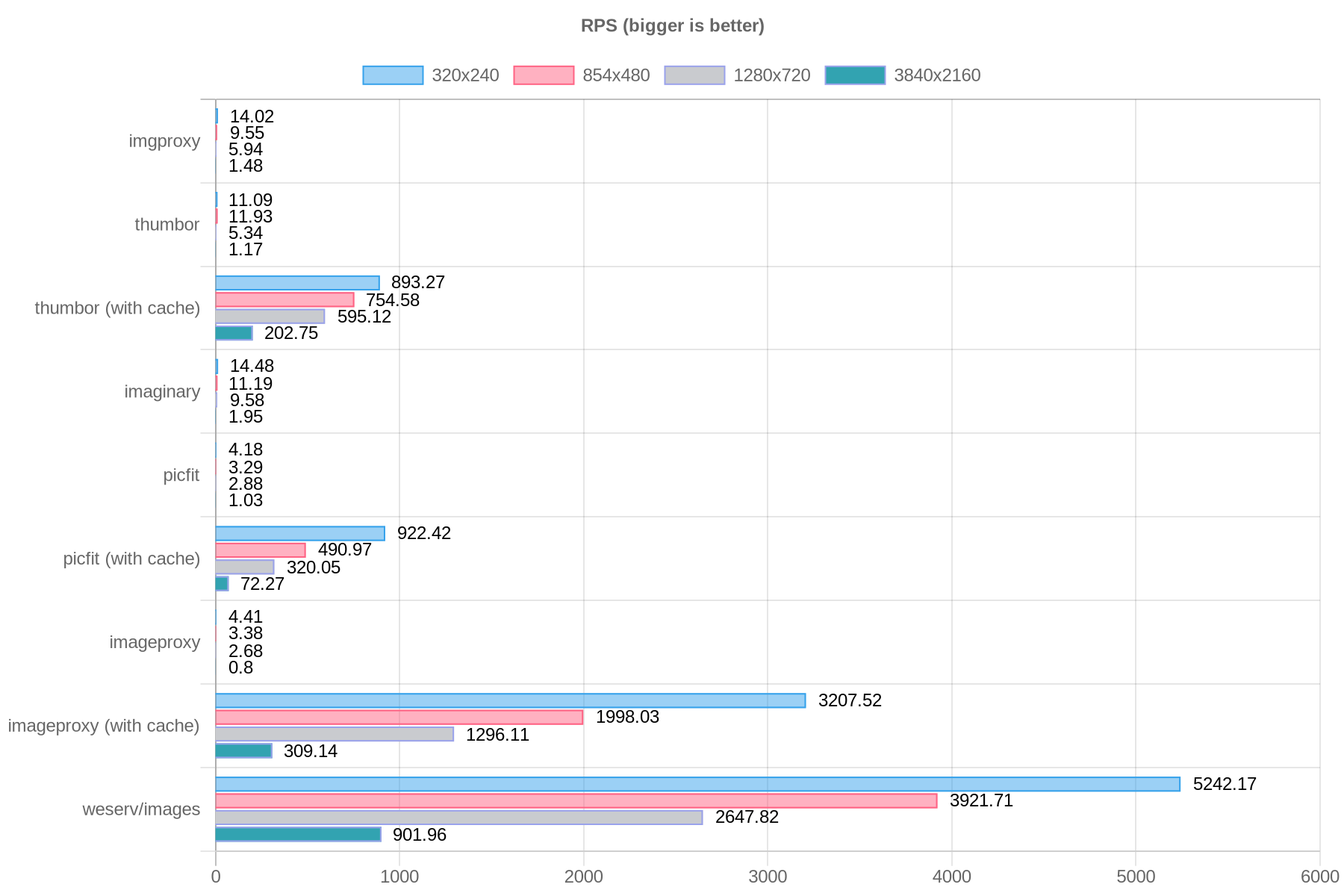
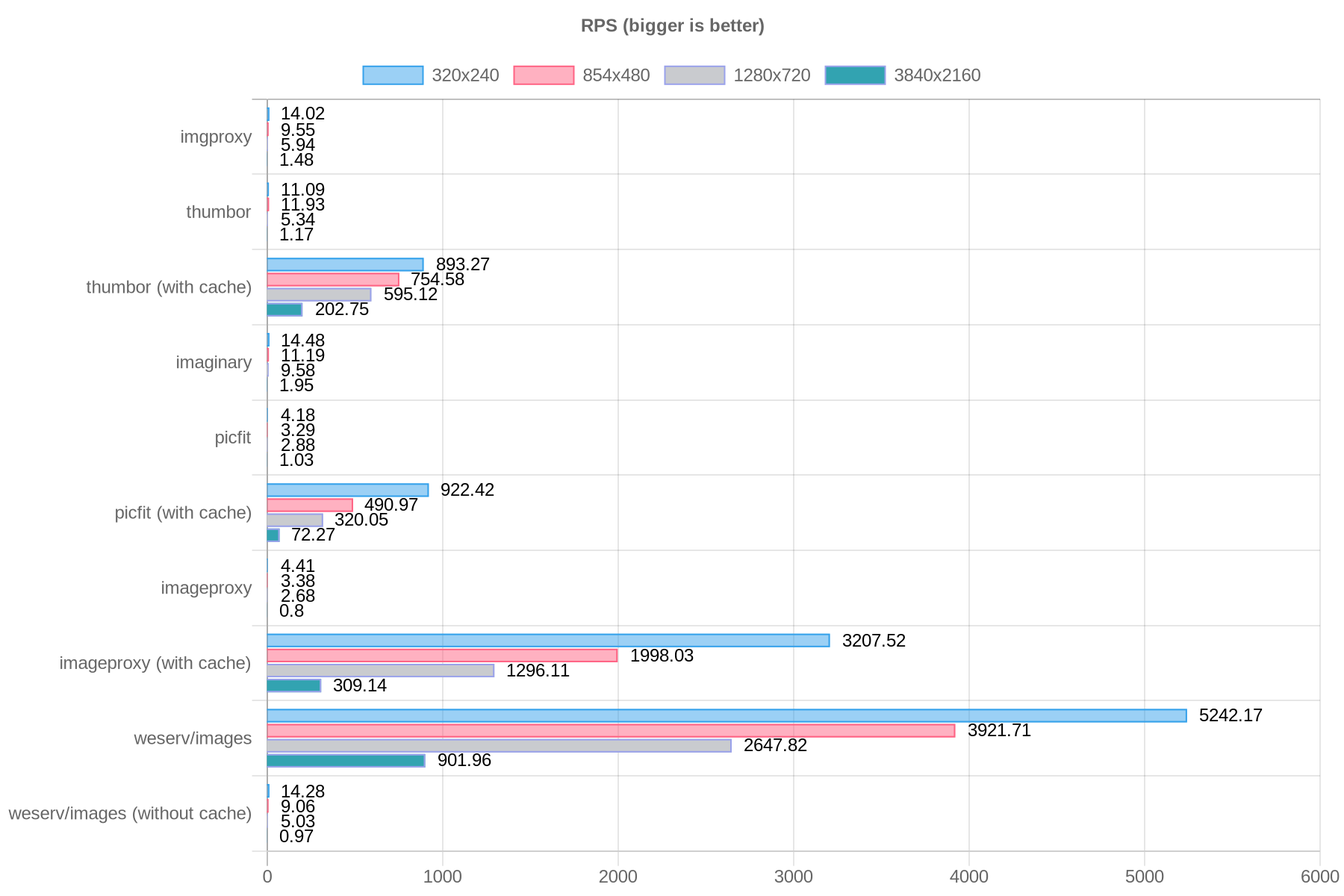
Update weserv/images (without  cache) results

diff --git a/README.md b/README.md
@@ -54,16 +54,16 @@ Flags:                           fpu vme de pse tsc msr pae mce cx8 apic sep mtr
 |             | imgproxy                   | thumbor                    | thumbor (with `file_storage` cache) | imaginary                  | picfit                     | picfit (with `fs` cache)  | imageproxy                 | imageproxy (with `in memory` cache) | weserv/images              | weserv/images (without `nginx` cache) |
 | ----------- | -------------------------- | -------------------------- | ----------------------------------- | -------------------------- | -------------------------- | ------------------------- | -------------------------- | ----------------------------------- | -------------------------- | ------------------------------------- |
 | 320x240     | 71.90ms (14.02 rps, 60MB)  | 90.51ms (11.09 rps, 60MB)  | 1.79ms (893.27 rps, 50MB)           | 69.55ms (14.48 rps, 200MB) | 238.91ms (4.18 rps, 50MB)  | 8.23ms (922.42 rps, 40MB) | 226.29ms (4.41 rps, 60MB)  | 2.41ms (3207.52 rps, 40MB)          | 0.5ms (5242.17 rps, 40MB)  | 70.28ms (14.28 rps, 45MB)             |
-| 854x480     | 105.17ms (9.55 rps, 65MB)  | 84.06ms (11.93 rps, 65MB)  | 1.33ms (754.58 rps, 50MB)           | 89.84ms (11.19 rps, 320MB) | 303.05ms (3.29 rps, 60MB)  | 4.56ms (490.97 rps, 40MB) | 295.18ms (3.38 rps, 70MB)  | 1.63ms (1998.03 rps, 40MB)          | 0.6ms (3921.71 rps, 40MB)  | 90.40ms (11.06 rps, 55MB)             |
-| 1280x720    | 168.57ms (5.94 rps, 70MB)  | 186.55ms (5.34 rps, 70MB)  | 2.24ms (595.12 rps, 50MB)           | 104.65ms (9.58 rps, 380MB) | 345.35ms (2.88 rps, 80MB)  | 6.31ms (320.05 rps, 50MB) | 373.96ms (2.68 rps, 80MB)  | 2.40ms (1296.11 rps, 40MB)          | 1.34ms (2647.82 rps, 40MB) | 70.28ms (14.28 rps, 45MB)             |
-| 3840x2160   | 669.91ms (1.48 rps, 100MB) | 855.83ms (1.17 rps, 120MB) | 14.35ms (202.75 rps, 65MB)          | 509.45ms (1.95 rps, 500MB) | 956.23ms (1.03 rps, 150MB) | 47.13ms (72.27 rps, 70MB) | 1250.0ms (0.80 rps, 150MB) | 22.20ms (309.14 rps, 50MB)          | 4.27ms (901.96 rps, 40MB)  | 70.28ms (14.28 rps, 45MB)             |
+| 854x480     | 105.17ms (9.55 rps, 65MB)  | 84.06ms (11.93 rps, 65MB)  | 1.33ms (754.58 rps, 50MB)           | 89.84ms (11.19 rps, 320MB) | 303.05ms (3.29 rps, 60MB)  | 4.56ms (490.97 rps, 40MB) | 295.18ms (3.38 rps, 70MB)  | 1.63ms (1998.03 rps, 40MB)          | 0.6ms (3921.71 rps, 40MB)  | 111.55ms (9.06 rps, 55MB)             |
+| 1280x720    | 168.57ms (5.94 rps, 70MB)  | 186.55ms (5.34 rps, 70MB)  | 2.24ms (595.12 rps, 50MB)           | 104.65ms (9.58 rps, 380MB) | 345.35ms (2.88 rps, 80MB)  | 6.31ms (320.05 rps, 50MB) | 373.96ms (2.68 rps, 80MB)  | 2.40ms (1296.11 rps, 40MB)          | 1.34ms (2647.82 rps, 40MB) | 198.45ms (5.03 rps, 65MB)             |
+| 3840x2160   | 669.91ms (1.48 rps, 100MB) | 855.83ms (1.17 rps, 120MB) | 14.35ms (202.75 rps, 65MB)          | 509.45ms (1.95 rps, 500MB) | 956.23ms (1.03 rps, 150MB) | 47.13ms (72.27 rps, 70MB) | 1250.0ms (0.80 rps, 150MB) | 22.20ms (309.14 rps, 50MB)          | 4.27ms (901.96 rps, 40MB)  | 1020.0ms (0.97 rps, 90MB)             |
 
 
-![https://quickchart.io/sandbox/#%7B%0A%20%20%22type%22%3A%20%22horizontalBar%22%2C%0A%20%20%22data%22%3A%20%7B%0A%20%20%20%20%22labels%22%3A%20%5B%0A%20%20%20%20%20%20%22imgproxy%22%2C%0A%20%20%20%20%20%20%22thumbor%22%2C%0A%20%20%20%20%20%20%22thumbor%20(with%20cache)%22%2C%0A%20%20%20%20%20%20%22imaginary%22%2C%0A%20%20%20%20%20%20%22picfit%22%2C%0A%20%20%20%20%20%20%22picfit%20(with%20cache)%22%2C%0A%20%20%20%20%20%20%22imageproxy%22%2C%0A%20%20%20%20%20%20%22imageproxy%20(with%20cache)%22%2C%0A%20%20%20%20%20%20%22weserv%2Fimages%22%0A%20%20%20%20%5D%2C%0A%20%20%20%20%22datasets%22%3A%20%5B%0A%20%20%20%20%20%20%7B%0A%20%20%20%20%20%20%20%20%22label%22%3A%20%22320x240%22%2C%0A%20%20%20%20%20%20%20%20%22backgroundColor%22%3A%20%22rgba(54%2C%20162%2C%20235%2C%200.5)%22%2C%0A%20%20%20%20%20%20%20%20%22borderColor%22%3A%20%22rgb(54%2C%20162%2C%20235)%22%2C%0A%20%20%20%20%20%20%20%20%22borderWidth%22%3A%201%2C%0A%20%20%20%20%20%20%20%20%22data%22%3A%20%5B%0A%20%20%20%20%20%20%20%20%20%2071.90%2C%0A%20%20%20%20%20%20%20%20%20%2090.51%2C%0A%20%20%20%20%20%20%20%20%20%201.79%2C%0A%20%20%20%20%20%20%20%20%20%2069.55%2C%0A%20%20%20%20%20%20%20%20%20%20238.91%2C%0A%20%20%20%20%20%20%20%20%20%208.23%2C%0A%20%20%20%20%20%20%20%20%20%20226.29%2C%0A%20%20%20%20%20%20%20%20%20%202.41%2C%0A%20%20%20%20%20%20%20%20%20%200.5%2C%0A%20%20%20%20%20%20%20%20%5D%0A%20%20%20%20%20%20%7D%2C%0A%20%20%20%20%20%20%7B%0A%20%20%20%20%20%20%20%20%22label%22%3A%20%22854x480%22%2C%0A%20%20%20%20%20%20%20%20%22backgroundColor%22%3A%20%22rgba(255%2C%2099%2C%20132%2C%200.5)%22%2C%0A%20%20%20%20%20%20%20%20%22borderColor%22%3A%20%22rgb(255%2C%2099%2C%20132)%22%2C%0A%20%20%20%20%20%20%20%20%22borderWidth%22%3A%201%2C%0A%20%20%20%20%20%20%20%20%22data%22%3A%20%5B%0A%20%20%20%20%20%20%20%20%20%20105.17%2C%0A%20%20%20%20%20%20%20%20%20%2084.06%2C%0A%20%20%20%20%20%20%20%20%20%201.33%2C%0A%20%20%20%20%20%20%20%20%20%2089.84%2C%0A%20%20%20%20%20%20%20%20%20%20303.05%2C%0A%20%20%20%20%20%20%20%20%20%204.56%2C%0A%20%20%20%20%20%20%20%20%20%20295.18%2C%0A%20%20%20%20%20%20%20%20%20%201.63%2C%0A%20%20%20%20%20%20%20%20%20%200.6%2C%0A%20%20%20%20%20%20%20%20%5D%0A%20%20%20%20%20%20%7D%2C%0A%20%20%20%20%20%20%7B%0A%20%20%20%20%20%20%20%20%22label%22%3A%20%221280x720%22%2C%0A%20%20%20%20%20%20%20%20%22backgroundColor%22%3A%20%22rgb(201%2C%20203%2C%20207)%22%2C%0A%20%20%20%20%20%20%20%20%22borderColor%22%3A%20%22rgb(154%2C%20162%2C%20235)%22%2C%0A%20%20%20%20%20%20%20%20%22borderWidth%22%3A%201%2C%0A%20%20%20%20%20%20%20%20%22data%22%3A%20%5B%0A%20%20%20%20%20%20%20%20%20%20168.57%2C%0A%20%20%20%20%20%20%20%20%20%20186.55%2C%0A%20%20%20%20%20%20%20%20%20%202.24%2C%0A%20%20%20%20%20%20%20%20%20%20104.65%2C%0A%20%20%20%20%20%20%20%20%20%20345.35%2C%0A%20%20%20%20%20%20%20%20%20%206.31%2C%0A%20%20%20%20%20%20%20%20%20%20373.96%2C%0A%20%20%20%20%20%20%20%20%20%202.40%2C%0A%20%20%20%20%20%20%20%20%20%201.34%2C%0A%20%20%20%20%20%20%20%20%5D%0A%20%20%20%20%20%20%7D%2C%0A%20%20%20%20%20%20%7B%0A%20%20%20%20%20%20%20%20%22label%22%3A%20%223840x2160%22%2C%0A%20%20%20%20%20%20%20%20%22backgroundColor%22%3A%20%22rgb(50%2C%20163%2C%20177)%22%2C%0A%20%20%20%20%20%20%20%20%22borderColor%22%3A%20%22rgb(154%2C%20162%2C%20235)%22%2C%0A%20%20%20%20%20%20%20%20%22borderWidth%22%3A%201%2C%0A%20%20%20%20%20%20%20%20%22data%22%3A%20%5B%0A%20%20%20%20%20%20%20%20%20%20669.91%2C%0A%20%20%20%20%20%20%20%20%20%20855.83%2C%0A%20%20%20%20%20%20%20%20%20%2014.35%2C%0A%20%20%20%20%20%20%20%20%20%20509.45%2C%0A%20%20%20%20%20%20%20%20%20%20956.23%2C%0A%20%20%20%20%20%20%20%20%20%2047.13%2C%0A%20%20%20%20%20%20%20%20%20%201250.0%2C%0A%20%20%20%20%20%20%20%20%20%2022.20%2C%0A%20%20%20%20%20%20%20%20%20%204.27%2C%0A%20%20%20%20%20%20%20%20%5D%0A%20%20%20%20%20%20%7D%0A%20%20%20%20%5D%0A%20%20%7D%2C%0A%20%20%22options%22%3A%20%7B%0A%20%20%20%20%22plugins%22%3A%20%7B%0A%20%20%20%20%20%20%22datalabels%22%3A%20%7B%0A%20%20%20%20%20%20%20%20%22anchor%22%3A%20%22end%22%2C%0A%20%20%20%20%20%20%20%20%22align%22%3A%20%22end%22%2C%0A%20%20%20%20%20%20%20%20%22color%22%3A%20%22%23000%22%0A%20%20%20%20%20%20%7D%0A%20%20%20%20%7D%2C%0A%20%20%20%20%22responsive%22%3A%20true%2C%0A%20%20%20%20%22legend%22%3A%20%7B%0A%20%20%20%20%20%20%22position%22%3A%20%22top%22%0A%20%20%20%20%7D%2C%0A%20%20%20%20%22title%22%3A%20%7B%0A%20%20%20%20%20%20%22display%22%3A%20true%2C%0A%20%20%20%20%20%20%22text%22%3A%20%22Rendering%20time%20in%20milliseconds%20(lower%20is%20better)%22%0A%20%20%20%20%7D%0A%20%20%7D%0A%7D](./chart-time.png)
+![https://quickchart.io/sandbox/#%7B%0A%20%20%22type%22%3A%20%22horizontalBar%22%2C%0A%20%20%22data%22%3A%20%7B%0A%20%20%20%20%22labels%22%3A%20%5B%0A%20%20%20%20%20%20%22imgproxy%22%2C%0A%20%20%20%20%20%20%22thumbor%22%2C%0A%20%20%20%20%20%20%22thumbor%20(with%20cache)%22%2C%0A%20%20%20%20%20%20%22imaginary%22%2C%0A%20%20%20%20%20%20%22picfit%22%2C%0A%20%20%20%20%20%20%22picfit%20(with%20cache)%22%2C%0A%20%20%20%20%20%20%22imageproxy%22%2C%0A%20%20%20%20%20%20%22imageproxy%20(with%20cache)%22%2C%0A%20%20%20%20%20%20%22weserv%2Fimages%22%2C%0A%20%20%20%20%20%20%22weserv%2Fimages%20(without%20cache)%22%0A%20%20%20%20%5D%2C%0A%20%20%20%20%22datasets%22%3A%20%5B%0A%20%20%20%20%20%20%7B%0A%20%20%20%20%20%20%20%20%22label%22%3A%20%22320x240%22%2C%0A%20%20%20%20%20%20%20%20%22backgroundColor%22%3A%20%22rgba(54%2C%20162%2C%20235%2C%200.5)%22%2C%0A%20%20%20%20%20%20%20%20%22borderColor%22%3A%20%22rgb(54%2C%20162%2C%20235)%22%2C%0A%20%20%20%20%20%20%20%20%22borderWidth%22%3A%201%2C%0A%20%20%20%20%20%20%20%20%22data%22%3A%20%5B%0A%20%20%20%20%20%20%20%20%20%2071.90%2C%0A%20%20%20%20%20%20%20%20%20%2090.51%2C%0A%20%20%20%20%20%20%20%20%20%201.79%2C%0A%20%20%20%20%20%20%20%20%20%2069.55%2C%0A%20%20%20%20%20%20%20%20%20%20238.91%2C%0A%20%20%20%20%20%20%20%20%20%208.23%2C%0A%20%20%20%20%20%20%20%20%20%20226.29%2C%0A%20%20%20%20%20%20%20%20%20%202.41%2C%0A%20%20%20%20%20%20%20%20%20%200.5%2C%0A%20%20%20%20%20%20%20%20%20%2070.28%2C%0A%20%20%20%20%20%20%20%20%5D%0A%20%20%20%20%20%20%7D%2C%0A%20%20%20%20%20%20%7B%0A%20%20%20%20%20%20%20%20%22label%22%3A%20%22854x480%22%2C%0A%20%20%20%20%20%20%20%20%22backgroundColor%22%3A%20%22rgba(255%2C%2099%2C%20132%2C%200.5)%22%2C%0A%20%20%20%20%20%20%20%20%22borderColor%22%3A%20%22rgb(255%2C%2099%2C%20132)%22%2C%0A%20%20%20%20%20%20%20%20%22borderWidth%22%3A%201%2C%0A%20%20%20%20%20%20%20%20%22data%22%3A%20%5B%0A%20%20%20%20%20%20%20%20%20%20105.17%2C%0A%20%20%20%20%20%20%20%20%20%2084.06%2C%0A%20%20%20%20%20%20%20%20%20%201.33%2C%0A%20%20%20%20%20%20%20%20%20%2089.84%2C%0A%20%20%20%20%20%20%20%20%20%20303.05%2C%0A%20%20%20%20%20%20%20%20%20%204.56%2C%0A%20%20%20%20%20%20%20%20%20%20295.18%2C%0A%20%20%20%20%20%20%20%20%20%201.63%2C%0A%20%20%20%20%20%20%20%20%20%200.6%2C%0A%20%20%20%20%20%20%20%20%20%20111.55%2C%0A%20%20%20%20%20%20%20%20%5D%0A%20%20%20%20%20%20%7D%2C%0A%20%20%20%20%20%20%7B%0A%20%20%20%20%20%20%20%20%22label%22%3A%20%221280x720%22%2C%0A%20%20%20%20%20%20%20%20%22backgroundColor%22%3A%20%22rgb(201%2C%20203%2C%20207)%22%2C%0A%20%20%20%20%20%20%20%20%22borderColor%22%3A%20%22rgb(154%2C%20162%2C%20235)%22%2C%0A%20%20%20%20%20%20%20%20%22borderWidth%22%3A%201%2C%0A%20%20%20%20%20%20%20%20%22data%22%3A%20%5B%0A%20%20%20%20%20%20%20%20%20%20168.57%2C%0A%20%20%20%20%20%20%20%20%20%20186.55%2C%0A%20%20%20%20%20%20%20%20%20%202.24%2C%0A%20%20%20%20%20%20%20%20%20%20104.65%2C%0A%20%20%20%20%20%20%20%20%20%20345.35%2C%0A%20%20%20%20%20%20%20%20%20%206.31%2C%0A%20%20%20%20%20%20%20%20%20%20373.96%2C%0A%20%20%20%20%20%20%20%20%20%202.40%2C%0A%20%20%20%20%20%20%20%20%20%201.34%2C%0A%20%20%20%20%20%20%20%20%20%20198.45%2C%0A%20%20%20%20%20%20%20%20%5D%0A%20%20%20%20%20%20%7D%2C%0A%20%20%20%20%20%20%7B%0A%20%20%20%20%20%20%20%20%22label%22%3A%20%223840x2160%22%2C%0A%20%20%20%20%20%20%20%20%22backgroundColor%22%3A%20%22rgb(50%2C%20163%2C%20177)%22%2C%0A%20%20%20%20%20%20%20%20%22borderColor%22%3A%20%22rgb(154%2C%20162%2C%20235)%22%2C%0A%20%20%20%20%20%20%20%20%22borderWidth%22%3A%201%2C%0A%20%20%20%20%20%20%20%20%22data%22%3A%20%5B%0A%20%20%20%20%20%20%20%20%20%20669.91%2C%0A%20%20%20%20%20%20%20%20%20%20855.83%2C%0A%20%20%20%20%20%20%20%20%20%2014.35%2C%0A%20%20%20%20%20%20%20%20%20%20509.45%2C%0A%20%20%20%20%20%20%20%20%20%20956.23%2C%0A%20%20%20%20%20%20%20%20%20%2047.13%2C%0A%20%20%20%20%20%20%20%20%20%201250.0%2C%0A%20%20%20%20%20%20%20%20%20%2022.20%2C%0A%20%20%20%20%20%20%20%20%20%204.27%2C%0A%20%20%20%20%20%20%20%20%20%201020.0%2C%0A%20%20%20%20%20%20%20%20%5D%0A%20%20%20%20%20%20%7D%0A%20%20%20%20%5D%0A%20%20%7D%2C%0A%20%20%22options%22%3A%20%7B%0A%20%20%20%20%22plugins%22%3A%20%7B%0A%20%20%20%20%20%20%22datalabels%22%3A%20%7B%0A%20%20%20%20%20%20%20%20%22anchor%22%3A%20%22end%22%2C%0A%20%20%20%20%20%20%20%20%22align%22%3A%20%22end%22%2C%0A%20%20%20%20%20%20%20%20%22color%22%3A%20%22%23000%22%0A%20%20%20%20%20%20%7D%0A%20%20%20%20%7D%2C%0A%20%20%20%20%22responsive%22%3A%20true%2C%0A%20%20%20%20%22legend%22%3A%20%7B%0A%20%20%20%20%20%20%22position%22%3A%20%22top%22%0A%20%20%20%20%7D%2C%0A%20%20%20%20%22title%22%3A%20%7B%0A%20%20%20%20%20%20%22display%22%3A%20true%2C%0A%20%20%20%20%20%20%22text%22%3A%20%22Rendering%20time%20in%20milliseconds%20(lower%20is%20better)%22%0A%20%20%20%20%7D%0A%20%20%7D%0A%7D](./chart-time.png)
 
-![https://quickchart.io/sandbox/#%7B%0A%20%20%22type%22%3A%20%22horizontalBar%22%2C%0A%20%20%22data%22%3A%20%7B%0A%20%20%20%20%22labels%22%3A%20%5B%0A%20%20%20%20%20%20%22imgproxy%22%2C%0A%20%20%20%20%20%20%22thumbor%22%2C%0A%20%20%20%20%20%20%22thumbor%20(with%20cache)%22%2C%0A%20%20%20%20%20%20%22imaginary%22%2C%0A%20%20%20%20%20%20%22picfit%22%2C%0A%20%20%20%20%20%20%22picfit%20(with%20cache)%22%2C%0A%20%20%20%20%20%20%22imageproxy%22%2C%0A%20%20%20%20%20%20%22imageproxy%20(with%20cache)%22%2C%0A%20%20%20%20%20%20%22weserv%2Fimages%22%2C%0A%20%20%20%20%5D%2C%0A%20%20%20%20%22datasets%22%3A%20%5B%0A%20%20%20%20%20%20%7B%0A%20%20%20%20%20%20%20%20%22label%22%3A%20%22320x240%22%2C%0A%20%20%20%20%20%20%20%20%22backgroundColor%22%3A%20%22rgba(54%2C%20162%2C%20235%2C%200.5)%22%2C%0A%20%20%20%20%20%20%20%20%22borderColor%22%3A%20%22rgb(54%2C%20162%2C%20235)%22%2C%0A%20%20%20%20%20%20%20%20%22borderWidth%22%3A%201%2C%0A%20%20%20%20%20%20%20%20%22data%22%3A%20%5B%0A%20%20%20%20%20%20%20%20%20%2060%2C%0A%20%20%20%20%20%20%20%20%20%2060%2C%0A%20%20%20%20%20%20%20%20%20%2050%2C%0A%20%20%20%20%20%20%20%20%20%20200%2C%0A%20%20%20%20%20%20%20%20%20%2050%2C%0A%20%20%20%20%20%20%20%20%20%2040%2C%0A%20%20%20%20%20%20%20%20%20%2060%2C%0A%20%20%20%20%20%20%20%20%20%2040%2C%0A%20%20%20%20%20%20%20%20%20%2040%2C%0A%20%20%20%20%20%20%20%20%5D%0A%20%20%20%20%20%20%7D%2C%0A%20%20%20%20%20%20%7B%0A%20%20%20%20%20%20%20%20%22label%22%3A%20%22854x480%22%2C%0A%20%20%20%20%20%20%20%20%22backgroundColor%22%3A%20%22rgba(255%2C%2099%2C%20132%2C%200.5)%22%2C%0A%20%20%20%20%20%20%20%20%22borderColor%22%3A%20%22rgb(255%2C%2099%2C%20132)%22%2C%0A%20%20%20%20%20%20%20%20%22borderWidth%22%3A%201%2C%0A%20%20%20%20%20%20%20%20%22data%22%3A%20%5B%0A%20%20%20%20%20%20%20%20%20%2065%2C%0A%20%20%20%20%20%20%20%20%20%2065%2C%0A%20%20%20%20%20%20%20%20%20%2050%2C%0A%20%20%20%20%20%20%20%20%20%20320%2C%0A%20%20%20%20%20%20%20%20%20%2060%2C%0A%20%20%20%20%20%20%20%20%20%2040%2C%0A%20%20%20%20%20%20%20%20%20%2070%2C%0A%20%20%20%20%20%20%20%20%20%2040%2C%0A%20%20%20%20%20%20%20%20%20%2040%2C%0A%20%20%20%20%20%20%20%20%5D%0A%20%20%20%20%20%20%7D%2C%0A%20%20%20%20%20%20%7B%0A%20%20%20%20%20%20%20%20%22label%22%3A%20%221280x720%22%2C%0A%20%20%20%20%20%20%20%20%22backgroundColor%22%3A%20%22rgb(201%2C%20203%2C%20207)%22%2C%0A%20%20%20%20%20%20%20%20%22borderColor%22%3A%20%22rgb(154%2C%20162%2C%20235)%22%2C%0A%20%20%20%20%20%20%20%20%22borderWidth%22%3A%201%2C%0A%20%20%20%20%20%20%20%20%22data%22%3A%20%5B%0A%20%20%20%20%20%20%20%20%20%2070%2C%0A%20%20%20%20%20%20%20%20%20%2070%2C%0A%20%20%20%20%20%20%20%20%20%2050%2C%0A%20%20%20%20%20%20%20%20%20%20380%2C%0A%20%20%20%20%20%20%20%20%20%2065%2C%0A%20%20%20%20%20%20%20%20%20%2040%2C%0A%20%20%20%20%20%20%20%20%20%2080%2C%0A%20%20%20%20%20%20%20%20%20%2040%2C%0A%20%20%20%20%20%20%20%20%20%2040%2C%0A%20%20%20%20%20%20%20%20%5D%0A%20%20%20%20%20%20%7D%2C%0A%20%20%20%20%20%20%7B%0A%20%20%20%20%20%20%20%20%22label%22%3A%20%223840x2160%22%2C%0A%20%20%20%20%20%20%20%20%22backgroundColor%22%3A%20%22rgb(50%2C%20163%2C%20177)%22%2C%0A%20%20%20%20%20%20%20%20%22borderColor%22%3A%20%22rgb(154%2C%20162%2C%20235)%22%2C%0A%20%20%20%20%20%20%20%20%22borderWidth%22%3A%201%2C%0A%20%20%20%20%20%20%20%20%22data%22%3A%20%5B%0A%20%20%20%20%20%20%20%20%20%20100%2C%0A%20%20%20%20%20%20%20%20%20%20120%2C%0A%20%20%20%20%20%20%20%20%20%2065%2C%0A%20%20%20%20%20%20%20%20%20%20510%2C%0A%20%20%20%20%20%20%20%20%20%20150%2C%0A%20%20%20%20%20%20%20%20%20%2070%2C%0A%20%20%20%20%20%20%20%20%20%20150%2C%0A%20%20%20%20%20%20%20%20%20%2050%2C%0A%20%20%20%20%20%20%20%20%20%2040%2C%0A%20%20%20%20%20%20%20%20%5D%0A%20%20%20%20%20%20%7D%0A%20%20%20%20%5D%0A%20%20%7D%2C%0A%20%20%22options%22%3A%20%7B%0A%20%20%20%20%22plugins%22%3A%20%7B%0A%20%20%20%20%20%20%22datalabels%22%3A%20%7B%0A%20%20%20%20%20%20%20%20%22anchor%22%3A%20%22end%22%2C%0A%20%20%20%20%20%20%20%20%22align%22%3A%20%22end%22%2C%0A%20%20%20%20%20%20%20%20%22color%22%3A%20%22%23000%22%0A%20%20%20%20%20%20%7D%0A%20%20%20%20%7D%2C%0A%20%20%20%20%22responsive%22%3A%20true%2C%0A%20%20%20%20%22legend%22%3A%20%7B%0A%20%20%20%20%20%20%22position%22%3A%20%22top%22%0A%20%20%20%20%7D%2C%0A%20%20%20%20%22title%22%3A%20%7B%0A%20%20%20%20%20%20%22display%22%3A%20true%2C%0A%20%20%20%20%20%20%22text%22%3A%20%22Memory%20usage%20in%20MB%20(lower%20is%20better)%22%0A%20%20%20%20%7D%0A%20%20%7D%0A%7D](./chart-memory.png)
+![https://quickchart.io/sandbox/#%7B%0A%20%20%22type%22%3A%20%22horizontalBar%22%2C%0A%20%20%22data%22%3A%20%7B%0A%20%20%20%20%22labels%22%3A%20%5B%0A%20%20%20%20%20%20%22imgproxy%22%2C%0A%20%20%20%20%20%20%22thumbor%22%2C%0A%20%20%20%20%20%20%22thumbor%20(with%20cache)%22%2C%0A%20%20%20%20%20%20%22imaginary%22%2C%0A%20%20%20%20%20%20%22picfit%22%2C%0A%20%20%20%20%20%20%22picfit%20(with%20cache)%22%2C%0A%20%20%20%20%20%20%22imageproxy%22%2C%0A%20%20%20%20%20%20%22imageproxy%20(with%20cache)%22%2C%0A%20%20%20%20%20%20%22weserv%2Fimages%22%2C%0A%20%20%20%20%20%20%22weserv%2Fimages%20(without%20cache)%22%0A%20%20%20%20%5D%2C%0A%20%20%20%20%22datasets%22%3A%20%5B%0A%20%20%20%20%20%20%7B%0A%20%20%20%20%20%20%20%20%22label%22%3A%20%22320x240%22%2C%0A%20%20%20%20%20%20%20%20%22backgroundColor%22%3A%20%22rgba(54%2C%20162%2C%20235%2C%200.5)%22%2C%0A%20%20%20%20%20%20%20%20%22borderColor%22%3A%20%22rgb(54%2C%20162%2C%20235)%22%2C%0A%20%20%20%20%20%20%20%20%22borderWidth%22%3A%201%2C%0A%20%20%20%20%20%20%20%20%22data%22%3A%20%5B%0A%20%20%20%20%20%20%20%20%20%2060%2C%0A%20%20%20%20%20%20%20%20%20%2060%2C%0A%20%20%20%20%20%20%20%20%20%2050%2C%0A%20%20%20%20%20%20%20%20%20%20200%2C%0A%20%20%20%20%20%20%20%20%20%2050%2C%0A%20%20%20%20%20%20%20%20%20%2040%2C%0A%20%20%20%20%20%20%20%20%20%2060%2C%0A%20%20%20%20%20%20%20%20%20%2040%2C%0A%20%20%20%20%20%20%20%20%20%2040%2C%0A%20%20%20%20%20%20%20%20%20%2045%0A%20%20%20%20%20%20%20%20%5D%0A%20%20%20%20%20%20%7D%2C%0A%20%20%20%20%20%20%7B%0A%20%20%20%20%20%20%20%20%22label%22%3A%20%22854x480%22%2C%0A%20%20%20%20%20%20%20%20%22backgroundColor%22%3A%20%22rgba(255%2C%2099%2C%20132%2C%200.5)%22%2C%0A%20%20%20%20%20%20%20%20%22borderColor%22%3A%20%22rgb(255%2C%2099%2C%20132)%22%2C%0A%20%20%20%20%20%20%20%20%22borderWidth%22%3A%201%2C%0A%20%20%20%20%20%20%20%20%22data%22%3A%20%5B%0A%20%20%20%20%20%20%20%20%20%2065%2C%0A%20%20%20%20%20%20%20%20%20%2065%2C%0A%20%20%20%20%20%20%20%20%20%2050%2C%0A%20%20%20%20%20%20%20%20%20%20320%2C%0A%20%20%20%20%20%20%20%20%20%2060%2C%0A%20%20%20%20%20%20%20%20%20%2040%2C%0A%20%20%20%20%20%20%20%20%20%2070%2C%0A%20%20%20%20%20%20%20%20%20%2040%2C%0A%20%20%20%20%20%20%20%20%20%2040%2C%0A%20%20%20%20%20%20%20%20%20%2055%2C%0A%20%20%20%20%20%20%20%20%5D%0A%20%20%20%20%20%20%7D%2C%0A%20%20%20%20%20%20%7B%0A%20%20%20%20%20%20%20%20%22label%22%3A%20%221280x720%22%2C%0A%20%20%20%20%20%20%20%20%22backgroundColor%22%3A%20%22rgb(201%2C%20203%2C%20207)%22%2C%0A%20%20%20%20%20%20%20%20%22borderColor%22%3A%20%22rgb(154%2C%20162%2C%20235)%22%2C%0A%20%20%20%20%20%20%20%20%22borderWidth%22%3A%201%2C%0A%20%20%20%20%20%20%20%20%22data%22%3A%20%5B%0A%20%20%20%20%20%20%20%20%20%2070%2C%0A%20%20%20%20%20%20%20%20%20%2070%2C%0A%20%20%20%20%20%20%20%20%20%2050%2C%0A%20%20%20%20%20%20%20%20%20%20380%2C%0A%20%20%20%20%20%20%20%20%20%2065%2C%0A%20%20%20%20%20%20%20%20%20%2040%2C%0A%20%20%20%20%20%20%20%20%20%2080%2C%0A%20%20%20%20%20%20%20%20%20%2040%2C%0A%20%20%20%20%20%20%20%20%20%2040%2C%0A%20%20%20%20%20%20%20%20%20%2065%2C%0A%20%20%20%20%20%20%20%20%5D%0A%20%20%20%20%20%20%7D%2C%0A%20%20%20%20%20%20%7B%0A%20%20%20%20%20%20%20%20%22label%22%3A%20%223840x2160%22%2C%0A%20%20%20%20%20%20%20%20%22backgroundColor%22%3A%20%22rgb(50%2C%20163%2C%20177)%22%2C%0A%20%20%20%20%20%20%20%20%22borderColor%22%3A%20%22rgb(154%2C%20162%2C%20235)%22%2C%0A%20%20%20%20%20%20%20%20%22borderWidth%22%3A%201%2C%0A%20%20%20%20%20%20%20%20%22data%22%3A%20%5B%0A%20%20%20%20%20%20%20%20%20%20100%2C%0A%20%20%20%20%20%20%20%20%20%20120%2C%0A%20%20%20%20%20%20%20%20%20%2065%2C%0A%20%20%20%20%20%20%20%20%20%20510%2C%0A%20%20%20%20%20%20%20%20%20%20150%2C%0A%20%20%20%20%20%20%20%20%20%2070%2C%0A%20%20%20%20%20%20%20%20%20%20150%2C%0A%20%20%20%20%20%20%20%20%20%2050%2C%0A%20%20%20%20%20%20%20%20%20%2040%2C%0A%20%20%20%20%20%20%20%20%20%2090%2C%0A%20%20%20%20%20%20%20%20%5D%0A%20%20%20%20%20%20%7D%0A%20%20%20%20%5D%0A%20%20%7D%2C%0A%20%20%22options%22%3A%20%7B%0A%20%20%20%20%22plugins%22%3A%20%7B%0A%20%20%20%20%20%20%22datalabels%22%3A%20%7B%0A%20%20%20%20%20%20%20%20%22anchor%22%3A%20%22end%22%2C%0A%20%20%20%20%20%20%20%20%22align%22%3A%20%22end%22%2C%0A%20%20%20%20%20%20%20%20%22color%22%3A%20%22%23000%22%0A%20%20%20%20%20%20%7D%0A%20%20%20%20%7D%2C%0A%20%20%20%20%22responsive%22%3A%20true%2C%0A%20%20%20%20%22legend%22%3A%20%7B%0A%20%20%20%20%20%20%22position%22%3A%20%22top%22%0A%20%20%20%20%7D%2C%0A%20%20%20%20%22title%22%3A%20%7B%0A%20%20%20%20%20%20%22display%22%3A%20true%2C%0A%20%20%20%20%20%20%22text%22%3A%20%22Memory%20usage%20in%20MB%20(lower%20is%20better)%22%0A%20%20%20%20%7D%0A%20%20%7D%0A%7D](./chart-memory.png)
 
-![https://quickchart.io/sandbox/#%7B%0A%20%20%22type%22%3A%20%22horizontalBar%22%2C%0A%20%20%22data%22%3A%20%7B%0A%20%20%20%20%22labels%22%3A%20%5B%0A%20%20%20%20%20%20%22imgproxy%22%2C%0A%20%20%20%20%20%20%22thumbor%22%2C%0A%20%20%20%20%20%20%22thumbor%20(with%20cache)%22%2C%0A%20%20%20%20%20%20%22imaginary%22%2C%0A%20%20%20%20%20%20%22picfit%22%2C%0A%20%20%20%20%20%20%22picfit%20(with%20cache)%22%2C%0A%20%20%20%20%20%20%22imageproxy%22%2C%0A%20%20%20%20%20%20%22imageproxy%20(with%20cache)%22%2C%0A%20%20%20%20%20%20%22weserv%2Fimages%22%2C%0A%20%20%20%20%5D%2C%0A%20%20%20%20%22datasets%22%3A%20%5B%0A%20%20%20%20%20%20%7B%0A%20%20%20%20%20%20%20%20%22label%22%3A%20%22320x240%22%2C%0A%20%20%20%20%20%20%20%20%22backgroundColor%22%3A%20%22rgba(54%2C%20162%2C%20235%2C%200.5)%22%2C%0A%20%20%20%20%20%20%20%20%22borderColor%22%3A%20%22rgb(54%2C%20162%2C%20235)%22%2C%0A%20%20%20%20%20%20%20%20%22borderWidth%22%3A%201%2C%0A%20%20%20%20%20%20%20%20%22data%22%3A%20%5B%0A%20%20%20%20%20%20%20%20%20%2014.02%2C%0A%20%20%20%20%20%20%20%20%20%2011.09%2C%0A%20%20%20%20%20%20%20%20%20%20893.27%2C%0A%20%20%20%20%20%20%20%20%20%2014.48%2C%0A%20%20%20%20%20%20%20%20%20%204.18%2C%0A%20%20%20%20%20%20%20%20%20%20922.42%2C%0A%20%20%20%20%20%20%20%20%20%204.41%2C%0A%20%20%20%20%20%20%20%20%20%203207.52%2C%0A%20%20%20%20%20%20%20%20%20%205242.17%2C%0A%20%20%20%20%20%20%20%20%5D%0A%20%20%20%20%20%20%7D%2C%0A%20%20%20%20%20%20%7B%0A%20%20%20%20%20%20%20%20%22label%22%3A%20%22854x480%22%2C%0A%20%20%20%20%20%20%20%20%22backgroundColor%22%3A%20%22rgba(255%2C%2099%2C%20132%2C%200.5)%22%2C%0A%20%20%20%20%20%20%20%20%22borderColor%22%3A%20%22rgb(255%2C%2099%2C%20132)%22%2C%0A%20%20%20%20%20%20%20%20%22borderWidth%22%3A%201%2C%0A%20%20%20%20%20%20%20%20%22data%22%3A%20%5B%0A%20%20%20%20%20%20%20%20%20%209.55%2C%0A%20%20%20%20%20%20%20%20%20%2011.93%2C%0A%20%20%20%20%20%20%20%20%20%20754.58%2C%0A%20%20%20%20%20%20%20%20%20%2011.19%2C%0A%20%20%20%20%20%20%20%20%20%203.29%2C%0A%20%20%20%20%20%20%20%20%20%20490.97%2C%0A%20%20%20%20%20%20%20%20%20%203.38%2C%0A%20%20%20%20%20%20%20%20%20%201998.03%2C%0A%20%20%20%20%20%20%20%20%20%203921.71%2C%0A%20%20%20%20%20%20%20%20%5D%0A%20%20%20%20%20%20%7D%2C%0A%20%20%20%20%20%20%7B%0A%20%20%20%20%20%20%20%20%22label%22%3A%20%221280x720%22%2C%0A%20%20%20%20%20%20%20%20%22backgroundColor%22%3A%20%22rgb(201%2C%20203%2C%20207)%22%2C%0A%20%20%20%20%20%20%20%20%22borderColor%22%3A%20%22rgb(154%2C%20162%2C%20235)%22%2C%0A%20%20%20%20%20%20%20%20%22borderWidth%22%3A%201%2C%0A%20%20%20%20%20%20%20%20%22data%22%3A%20%5B%0A%20%20%20%20%20%20%20%20%20%205.94%2C%0A%20%20%20%20%20%20%20%20%20%205.34%2C%0A%20%20%20%20%20%20%20%20%20%20595.12%2C%0A%20%20%20%20%20%20%20%20%20%209.58%2C%0A%20%20%20%20%20%20%20%20%20%202.88%2C%0A%20%20%20%20%20%20%20%20%20%20320.05%2C%0A%20%20%20%20%20%20%20%20%20%202.68%2C%0A%20%20%20%20%20%20%20%20%20%201296.11%2C%0A%20%20%20%20%20%20%20%20%20%202647.82%2C%0A%20%20%20%20%20%20%20%20%5D%0A%20%20%20%20%20%20%7D%2C%0A%20%20%20%20%20%20%7B%0A%20%20%20%20%20%20%20%20%22label%22%3A%20%223840x2160%22%2C%0A%20%20%20%20%20%20%20%20%22backgroundColor%22%3A%20%22rgb(50%2C%20163%2C%20177)%22%2C%0A%20%20%20%20%20%20%20%20%22borderColor%22%3A%20%22rgb(154%2C%20162%2C%20235)%22%2C%0A%20%20%20%20%20%20%20%20%22borderWidth%22%3A%201%2C%0A%20%20%20%20%20%20%20%20%22data%22%3A%20%5B%0A%20%20%20%20%20%20%20%20%20%201.48%2C%0A%20%20%20%20%20%20%20%20%20%201.17%2C%0A%20%20%20%20%20%20%20%20%20%20202.75%2C%0A%20%20%20%20%20%20%20%20%20%201.95%2C%0A%20%20%20%20%20%20%20%20%20%201.03%2C%0A%20%20%20%20%20%20%20%20%20%2072.27%2C%0A%20%20%20%20%20%20%20%20%20%200.80%2C%0A%20%20%20%20%20%20%20%20%20%20309.14%2C%0A%20%20%20%20%20%20%20%20%20%20901.96%2C%0A%20%20%20%20%20%20%20%20%5D%0A%20%20%20%20%20%20%7D%0A%20%20%20%20%5D%0A%20%20%7D%2C%0A%20%20%22options%22%3A%20%7B%0A%20%20%20%20%22plugins%22%3A%20%7B%0A%20%20%20%20%20%20%22datalabels%22%3A%20%7B%0A%20%20%20%20%20%20%20%20%22anchor%22%3A%20%22end%22%2C%0A%20%20%20%20%20%20%20%20%22align%22%3A%20%22end%22%2C%0A%20%20%20%20%20%20%20%20%22color%22%3A%20%22%23000%22%0A%20%20%20%20%20%20%7D%0A%20%20%20%20%7D%2C%0A%20%20%20%20%22responsive%22%3A%20true%2C%0A%20%20%20%20%22legend%22%3A%20%7B%0A%20%20%20%20%20%20%22position%22%3A%20%22top%22%0A%20%20%20%20%7D%2C%0A%20%20%20%20%22title%22%3A%20%7B%0A%20%20%20%20%20%20%22display%22%3A%20true%2C%0A%20%20%20%20%20%20%22text%22%3A%20%22RPS%20(bigger%20is%20better)%22%0A%20%20%20%20%7D%0A%20%20%7D%0A%7D](./chart-rps.png)
+![https://quickchart.io/sandbox/#%7B%0A%20%20%22type%22%3A%20%22horizontalBar%22%2C%0A%20%20%22data%22%3A%20%7B%0A%20%20%20%20%22labels%22%3A%20%5B%0A%20%20%20%20%20%20%22imgproxy%22%2C%0A%20%20%20%20%20%20%22thumbor%22%2C%0A%20%20%20%20%20%20%22thumbor%20(with%20cache)%22%2C%0A%20%20%20%20%20%20%22imaginary%22%2C%0A%20%20%20%20%20%20%22picfit%22%2C%0A%20%20%20%20%20%20%22picfit%20(with%20cache)%22%2C%0A%20%20%20%20%20%20%22imageproxy%22%2C%0A%20%20%20%20%20%20%22imageproxy%20(with%20cache)%22%2C%0A%20%20%20%20%20%20%22weserv%2Fimages%22%2C%0A%20%20%20%20%20%20%22weserv%2Fimages%20(without%20cache)%22%2C%0A%20%20%20%20%5D%2C%0A%20%20%20%20%22datasets%22%3A%20%5B%0A%20%20%20%20%20%20%7B%0A%20%20%20%20%20%20%20%20%22label%22%3A%20%22320x240%22%2C%0A%20%20%20%20%20%20%20%20%22backgroundColor%22%3A%20%22rgba(54%2C%20162%2C%20235%2C%200.5)%22%2C%0A%20%20%20%20%20%20%20%20%22borderColor%22%3A%20%22rgb(54%2C%20162%2C%20235)%22%2C%0A%20%20%20%20%20%20%20%20%22borderWidth%22%3A%201%2C%0A%20%20%20%20%20%20%20%20%22data%22%3A%20%5B%0A%20%20%20%20%20%20%20%20%20%2014.02%2C%0A%20%20%20%20%20%20%20%20%20%2011.09%2C%0A%20%20%20%20%20%20%20%20%20%20893.27%2C%0A%20%20%20%20%20%20%20%20%20%2014.48%2C%0A%20%20%20%20%20%20%20%20%20%204.18%2C%0A%20%20%20%20%20%20%20%20%20%20922.42%2C%0A%20%20%20%20%20%20%20%20%20%204.41%2C%0A%20%20%20%20%20%20%20%20%20%203207.52%2C%0A%20%20%20%20%20%20%20%20%20%205242.17%2C%0A%20%20%20%20%20%20%20%20%20%2014.28%2C%0A%20%20%20%20%20%20%20%20%5D%0A%20%20%20%20%20%20%7D%2C%0A%20%20%20%20%20%20%7B%0A%20%20%20%20%20%20%20%20%22label%22%3A%20%22854x480%22%2C%0A%20%20%20%20%20%20%20%20%22backgroundColor%22%3A%20%22rgba(255%2C%2099%2C%20132%2C%200.5)%22%2C%0A%20%20%20%20%20%20%20%20%22borderColor%22%3A%20%22rgb(255%2C%2099%2C%20132)%22%2C%0A%20%20%20%20%20%20%20%20%22borderWidth%22%3A%201%2C%0A%20%20%20%20%20%20%20%20%22data%22%3A%20%5B%0A%20%20%20%20%20%20%20%20%20%209.55%2C%0A%20%20%20%20%20%20%20%20%20%2011.93%2C%0A%20%20%20%20%20%20%20%20%20%20754.58%2C%0A%20%20%20%20%20%20%20%20%20%2011.19%2C%0A%20%20%20%20%20%20%20%20%20%203.29%2C%0A%20%20%20%20%20%20%20%20%20%20490.97%2C%0A%20%20%20%20%20%20%20%20%20%203.38%2C%0A%20%20%20%20%20%20%20%20%20%201998.03%2C%0A%20%20%20%20%20%20%20%20%20%203921.71%2C%0A%20%20%20%20%20%20%20%20%20%209.06%2C%0A%20%20%20%20%20%20%20%20%5D%0A%20%20%20%20%20%20%7D%2C%0A%20%20%20%20%20%20%7B%0A%20%20%20%20%20%20%20%20%22label%22%3A%20%221280x720%22%2C%0A%20%20%20%20%20%20%20%20%22backgroundColor%22%3A%20%22rgb(201%2C%20203%2C%20207)%22%2C%0A%20%20%20%20%20%20%20%20%22borderColor%22%3A%20%22rgb(154%2C%20162%2C%20235)%22%2C%0A%20%20%20%20%20%20%20%20%22borderWidth%22%3A%201%2C%0A%20%20%20%20%20%20%20%20%22data%22%3A%20%5B%0A%20%20%20%20%20%20%20%20%20%205.94%2C%0A%20%20%20%20%20%20%20%20%20%205.34%2C%0A%20%20%20%20%20%20%20%20%20%20595.12%2C%0A%20%20%20%20%20%20%20%20%20%209.58%2C%0A%20%20%20%20%20%20%20%20%20%202.88%2C%0A%20%20%20%20%20%20%20%20%20%20320.05%2C%0A%20%20%20%20%20%20%20%20%20%202.68%2C%0A%20%20%20%20%20%20%20%20%20%201296.11%2C%0A%20%20%20%20%20%20%20%20%20%202647.82%2C%0A%20%20%20%20%20%20%20%20%20%205.03%2C%0A%20%20%20%20%20%20%20%20%5D%0A%20%20%20%20%20%20%7D%2C%0A%20%20%20%20%20%20%7B%0A%20%20%20%20%20%20%20%20%22label%22%3A%20%223840x2160%22%2C%0A%20%20%20%20%20%20%20%20%22backgroundColor%22%3A%20%22rgb(50%2C%20163%2C%20177)%22%2C%0A%20%20%20%20%20%20%20%20%22borderColor%22%3A%20%22rgb(154%2C%20162%2C%20235)%22%2C%0A%20%20%20%20%20%20%20%20%22borderWidth%22%3A%201%2C%0A%20%20%20%20%20%20%20%20%22data%22%3A%20%5B%0A%20%20%20%20%20%20%20%20%20%201.48%2C%0A%20%20%20%20%20%20%20%20%20%201.17%2C%0A%20%20%20%20%20%20%20%20%20%20202.75%2C%0A%20%20%20%20%20%20%20%20%20%201.95%2C%0A%20%20%20%20%20%20%20%20%20%201.03%2C%0A%20%20%20%20%20%20%20%20%20%2072.27%2C%0A%20%20%20%20%20%20%20%20%20%200.80%2C%0A%20%20%20%20%20%20%20%20%20%20309.14%2C%0A%20%20%20%20%20%20%20%20%20%20901.96%2C%0A%20%20%20%20%20%20%20%20%20%200.97%2C%0A%20%20%20%20%20%20%20%20%5D%0A%20%20%20%20%20%20%7D%0A%20%20%20%20%5D%0A%20%20%7D%2C%0A%20%20%22options%22%3A%20%7B%0A%20%20%20%20%22plugins%22%3A%20%7B%0A%20%20%20%20%20%20%22datalabels%22%3A%20%7B%0A%20%20%20%20%20%20%20%20%22anchor%22%3A%20%22end%22%2C%0A%20%20%20%20%20%20%20%20%22align%22%3A%20%22end%22%2C%0A%20%20%20%20%20%20%20%20%22color%22%3A%20%22%23000%22%0A%20%20%20%20%20%20%7D%0A%20%20%20%20%7D%2C%0A%20%20%20%20%22responsive%22%3A%20true%2C%0A%20%20%20%20%22legend%22%3A%20%7B%0A%20%20%20%20%20%20%22position%22%3A%20%22top%22%0A%20%20%20%20%7D%2C%0A%20%20%20%20%22title%22%3A%20%7B%0A%20%20%20%20%20%20%22display%22%3A%20true%2C%0A%20%20%20%20%20%20%22text%22%3A%20%22RPS%20(bigger%20is%20better)%22%0A%20%20%20%20%7D%0A%20%20%7D%0A%7D](./chart-rps.png)
 
 
 Test image (1920x1080): https://raw.githubusercontent.com/mamchyts/benchmark-thumbnails/master/nature-wallpaper-1920x1080.jpg
